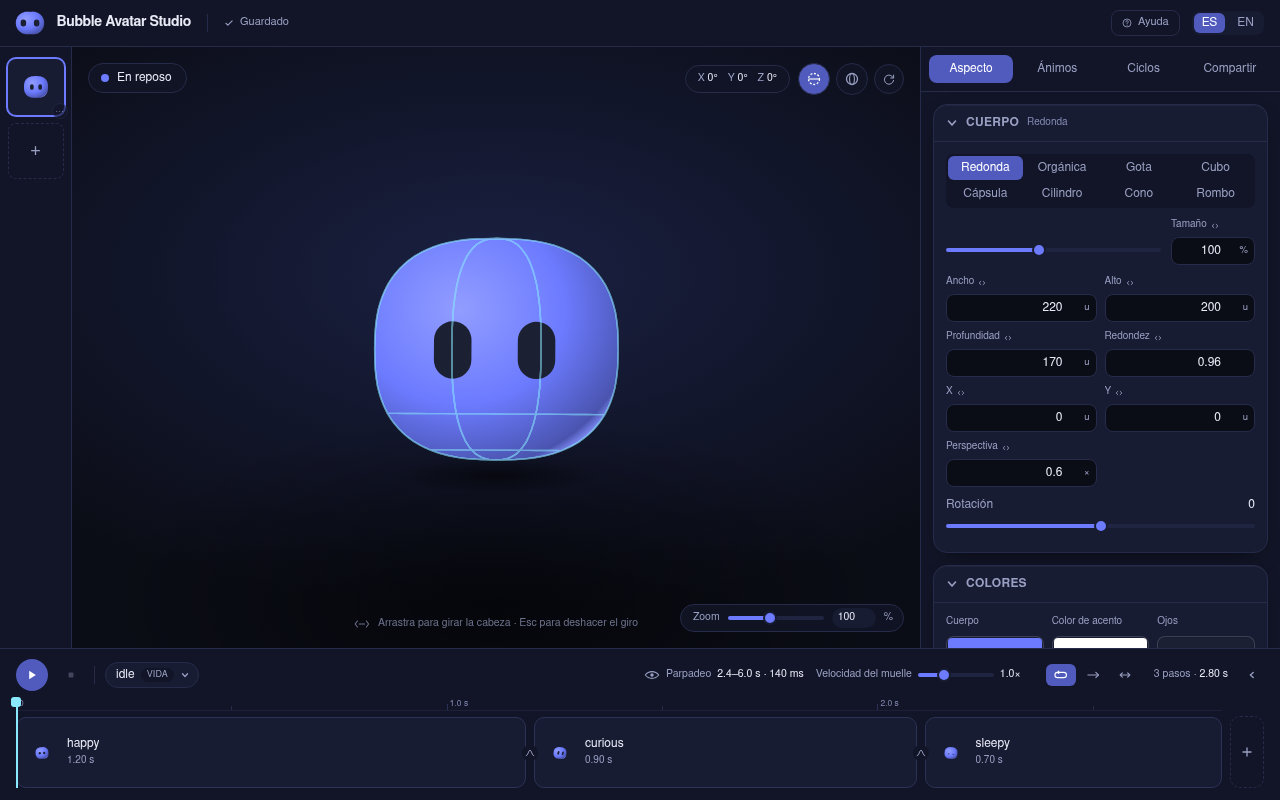
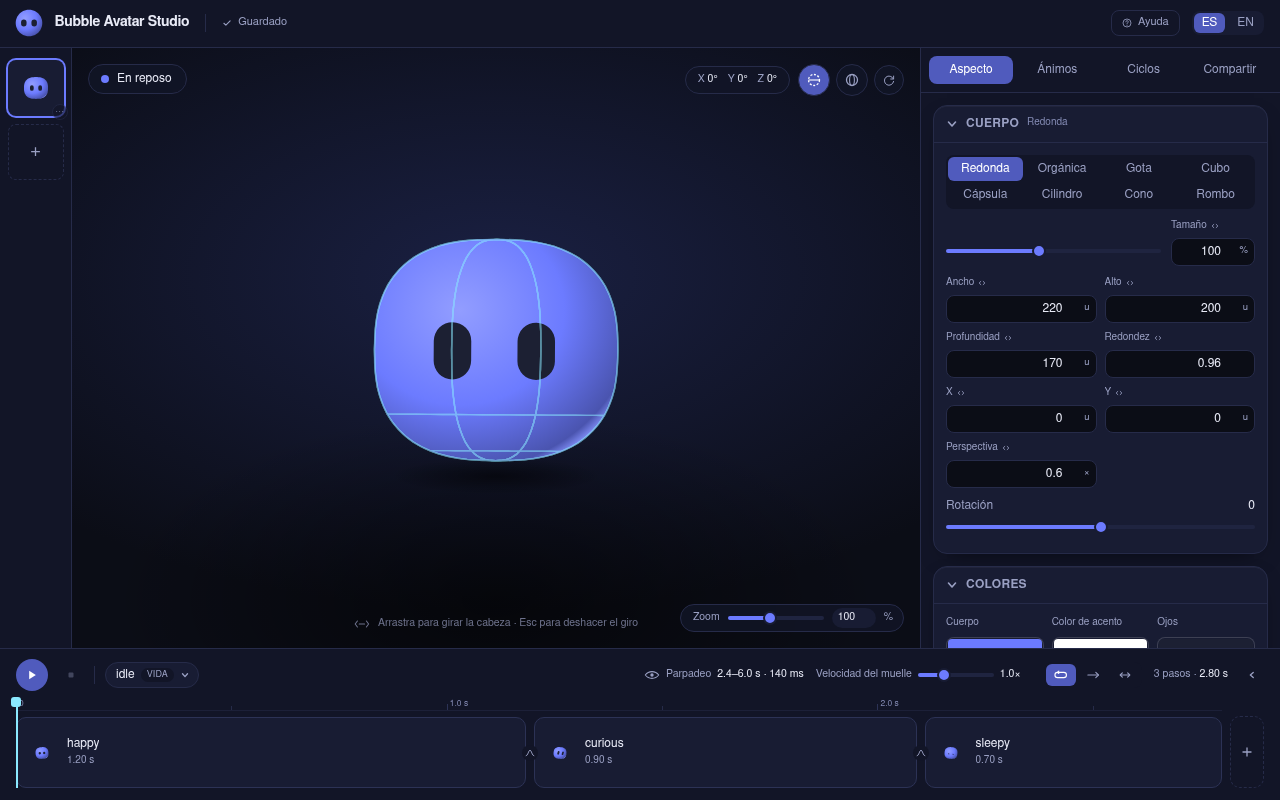
Make the mark round, and set its eyes closer together
Two changes to the mark, and a family walked back.

**The eyes sit closer.** They were 118 units apart on an 82-wide eye — further
from each other than they were themselves wide, which reads as two marks
sharing a body rather than as a face. The gap is 74 now. Stated in the test
against the eye's own width rather than in scene units, so it survives the mark
being resized, and it brackets against the existing 16px floor from the other
side: close enough to read as a face, far enough that a 16-pixel raster still
resolves two of them rather than one bar.

**The capsule is gone, because it was drawing an oval.** 428×340 is a
1.26-to-1 body, and at icon size that ratio is the whole impression — it reads
as an ellipse whatever family draws it. The mark is the round family again, at
one stated size rather than two.

Round takes two independent things, and either one alone still gives an oval.
Equal sides, and `roundness` at 1: it is the superellipse exponent, and only
at the top of its range does it reach an actual ellipse. The template's 0.96
draws the same square body as a rounded square — which is a perfectly good
shape and is not this one. Both are asserted, separately, because a later edit
that moves one and not the other would quietly restore the bug.

On the reference: the request pointed at the upstream app's own mark, and
`avatars.bible-strong.app` is exactly the deployed application part C names as
[…]

diff --git a/src/render/mark.ts b/src/render/mark.ts
@@ -13,39 +13,43 @@ import { sceneToSvg } from "./svg";
 import type { Bubble } from "../domain/document/types";
 
 /**
- * The mark's own proportions, stated rather than scaled off the template.
+ * The mark's own size, stated rather than scaled off the template.
  *
  * The scene is 512 units square whatever the body does, and the template's
  * 220-wide body fills 43% of it. That margin reads right on a stage — it is
  * the room a character turns and bobs in — and reads as a speck in a tab strip
- * or beside a wordmark, where the box is the whole picture. These fill most of
- * the width and stop short of the edge, so the silhouette never looks cropped.
+ * or beside a wordmark, where the box is the whole picture. This fills most of
+ * the box and stops short of the edge, so the silhouette never looks cropped.
  *
- * Width and height are given separately because the ratio is the shape here,
- * not a side effect of it: a capsule needs a long axis to put its caps on, and
- * one scale over the template's near-square 220×200 left a straight run too
- * short to see — the mark came out a circle wearing a capsule's name.
+ * One number, not two: the mark is round, and round is a circle rather than a
+ * squashed one. Giving width and height separately is what made an earlier
+ * mark an oval — 428×340 is a perfectly good body and reads as an ellipse at
+ * icon size, whatever family draws it.
  */
-const MARK_WIDTH = 428;
-const MARK_HEIGHT = 340;
+const MARK_SIZE = 400;
 
 /** The character the mark draws. Deterministic: a fresh one every call. */
 export function markBubble(): Bubble {
   const bubble = createBubble("Bubble", "bbl_mark0000");
   const { surface } = bubble.body;
-  // The capsule's straight run is what survives being shrunk: a round body
-  // loses its silhouette to antialiasing at icon size and reads as a smudge,
-  // where two flat sides and a hard cap still read as a shape. The caps sit on
-  // the *long* axis (see `barrelPoints`), and this body is wider than it is
-  // tall, so the mark is a capsule lying down.
-  surface.shape = "capsule";
-  surface.width = MARK_WIDTH;
-  surface.height = MARK_HEIGHT;
-  // Depth is the mean of the two: the body is a solid (FR-2.8), and one that
-  // grew only across the screen would flatten as it grew.
-  surface.depth = (MARK_WIDTH + MARK_HEIGHT) / 2;
+  surface.shape = "round";
+  surface.width = MARK_SIZE;
+  surface.height = MARK_SIZE;
+  // Depth matches: the body is a solid (FR-2.8), and one that grew only across
+  // the screen would flatten as it grew.
+  surface.depth = MARK_SIZE;
+  // Equal sides are half of being round. The other half is here: `roundness`
+  // is the superellipse exponent, and only at 1 does it reach an actual
+  // ellipse — the template's 0.96 draws the same square body as a rounded
+  // square, which is a different mark entirely.
+  surface.roundness = 1;
   bubble.restingFace.eye = { width: 82, height: 107, roundness: 1 };
-  bubble.restingFace.spacing = 172;
+  // 128 puts each eye's centre 78 units out (spacing/2 plus the nudge below),
+  // leaving a gap of 74 against an 82-wide eye: closer together than they are
+  // themselves wide, which is what reads as a face rather than as two marks
+  // sharing a body. It is still 14.5% of the scene, well clear of the 16px
+  // floor `mark.test.ts` holds the pair above.
+  bubble.restingFace.spacing = 128;
   bubble.restingFace.left.offsetX = -14;
   bubble.restingFace.right.offsetX = 14;
   // A logo does not breathe. Ambient is a function of time, and a mark that
@@ -63,7 +67,7 @@ export function markBubble(): Bubble {
  * uses these to size the hole it leaves rather than guessing at the geometry.
  */
 export function markInkRatio(): { x: number; y: number } {
-  return { x: MARK_WIDTH / SCENE_SIZE, y: MARK_HEIGHT / SCENE_SIZE };
+  return { x: MARK_SIZE / SCENE_SIZE, y: MARK_SIZE / SCENE_SIZE };
 }
 
 /**

diff --git a/src/render/mark.test.ts b/src/render/mark.test.ts
@@ -50,6 +50,15 @@ describe("the mark reads at 16px", () => {
     expect(gap / scene.size).toBeGreaterThan(PX_16 * 1.75);
   });
 
+  it("sets the pair closer than their own width apart", () => {
+    // Close-set reads as a face; far-set reads as two marks that happen to
+    // share a body. Stated against the eye rather than as scene units, so it
+    // survives the mark being resized. The floor above is the other side of
+    // this — together they bracket the pair between legible and huddled.
+    const gap = right.x - right.width / 2 - (left.x + left.width / 2);
+    expect(gap).toBeLessThan(left.width);
+  });
+
   it("draws eyes big enough to be more than a pixel each", () => {
     // Same reasoning: the default eye is 1.06 device pixels wide at 16px.
     for (const eye of [left, right]) {
@@ -58,8 +67,14 @@ describe("the mark reads at 16px", () => {
     }
   });
 
-  it("is a capsule — the family whose straight run reads at icon size", () => {
-    expect(markBubble().body.surface.shape).toBe("capsule");
+  it("is round, and round means a circle rather than a squashed one", () => {
+    const { surface } = markBubble().body;
+    expect(surface.shape).toBe("round");
+    // Two independent things have to hold, and each alone reads as an oval:
+    // equal sides, and the roundness that takes a superellipse all the way to
+    // an ellipse. At 0.96 the same square body draws a rounded square.
+    expect(surface.width).toBe(surface.height);
+    expect(surface.roundness).toBe(1);
   });
 
   it("fills its box, so the glyph is not a dot in a field of nothing", () => {

diff --git a/docs/LEGACY-DOCS.md b/docs/LEGACY-DOCS.md
@@ -296,13 +296,13 @@ audio lip-sync, marketplace, mobile-native editors. (Revisit post-v1.)
 - **FR-9.8** The studio wears its own character as its mark: the header logo
   and the browser favicon are the same render, produced by `render/mark.ts`
   rather than authored as an asset. The mark is its own character, not the
-  default template, and every difference is legibility at 16 device pixels:
-  the **capsule** family, whose straight run survives being shrunk where a
-  round body blurs into a smudge; a body filling most of its box rather than
-  the template's 43%; and wider eyes set further apart, because the default
-  pair merges into one bar down there. Its layout height is the height it
-  inks, not the square scene box, so a larger mark does not push the header
-  down over the stage.
+  default template: the **round** family at equal width and height and
+  `roundness` 1, which is what makes it a circle rather than an oval or a
+  rounded square; a body filling most of its box rather than the template's
+  43%; and eyes both larger than the template's and set closer than their own
+  width apart, close enough to read as a face and far enough that a 16-pixel
+  raster still shows two of them. Its layout box is the size it inks, not the
+  scene's, so a larger mark does not push the header down over the stage.
 - **FR-9.9** The same help sheet carries a guide to the studio as a second tab:
   what a bubble is, and what each surface of the shell is for, in es/en.
 
@@ -1472,7 +1472,7 @@ transition, a non-integer seed), which one file per code cannot express.
 
 ### 4b. Current state (re-derive; do not trust)
 
-As of the help sheet and the mark (F9): **39 Vitest files, 684 tests**, plus
+As of the help sheet and the mark (F9): **39 Vitest files, 685 tests**, plus
 **1 Playwright spec** of **12 scenarios** — boot, panels, a playing loop and
 the rail menu, joined by the mood editor's focus behaviour, the gizmo, the
 wireframe, the Share preview, drag-to-scrub, drag-to-reorder, a 1024×720
